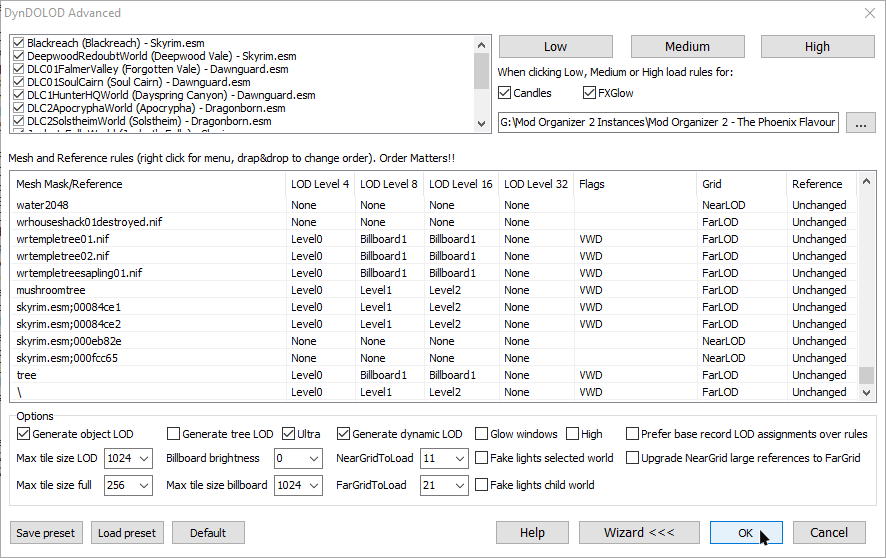
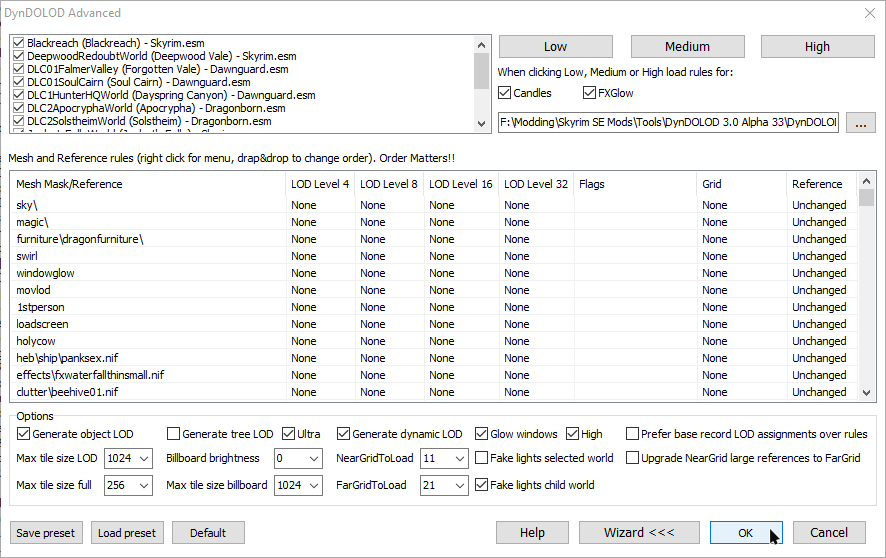
TPF Release 4.5.2

diff --git a/content/tpf/initial-setup/additional-tools.md b/content/tpf/initial-setup/additional-tools.md
@@ -83,12 +83,14 @@ Cathedral Assets Optimizer (CAO) by Gk1 is a unified asset processing tool that 
 
 ### Installation
 
-* Download the latest non-Beta version of [Cathedral Assets Optimizer](https://www.nexusmods.com/skyrimspecialedition/mods/23316) manually from the Nexus.
-* Create a new folder: `Your Modding Folder\Tools\Cathedral Assets Optimizer`.
-* Open the downloaded archive and extract everything into the new folder.
-* Follow [these instructions](https://support.microsoft.com/en-us/help/4028485/windows-) to add an exception for CAO to Windows Defender.
+- Manually download version **5.0.15** of the [Cathedral Assets Optimizer](https://www.nexusmods.com/skyrimspecialedition/mods/23316) under **Old Files**
+- Create a new folder: `Your Modding Folder\Tools\Cathedral Assets Optimizer`.
+- Open the downloaded archive and extract everything into the new folder.
+- Follow [these instructions](https://support.microsoft.com/en-us/help/4028485/windows-) to add an exception for CAO to Windows Defender.
 
-> You will be using CAO plenty of times during the installation of the guide, so I recommend adding it to your Windows Taskbar for quick access.
+You will be using CAO plenty of times during the installation of the guide, so I recommend adding it to your Windows Taskbar for quick access.
+
+> We are using an older version because CAO 5.1.x currently has some issues. Using it later on to pack and compress facegen files would cause the game to crash.
 
 ### Profiles
 

diff --git a/content/tpf/appendix/changelog.md b/content/tpf/appendix/changelog.md
@@ -6,6 +6,36 @@ description: >
   For all versions since the Github release (3.2 and later).
 ---
 
+## Release 4.5.2
+
+> 13/04/2021
+
+Fixed a bunch of issues that were reported over the past couple of dayss. This update is **save-safe** but it requires users of the manual guide to rerun DynDOLOD (you can keep your TexGen output).
+
+- [How to update DynDOLOD](/tpf/guide-resources/how-to-update/#dyndolod) for both manual and Wabbajack users.
+
+#### Initial Setup
+
+- **Additional Tools:** Added instructions to specifically download an older version of Cathedral Assets Optimizer.
+
+#### Mod Installation
+
+- Fixed a few more small typos and oversights.
+- **Fixes:** Updated download instructions for Bug Fixes SSE (file name changed).
+- **Valuable Items:** Removed Septim HD (coin pile mesh can cause crashes).
+- **Valuable Items:** Added Ancient Imperial Septims.
+- **New Content:** Removed note about Early Elementalist for Misc College of Winterhold Tweaks (no longer applies).
+
+#### Finalisation
+
+- **DynDOLOD:** Updated outdated screenshot with DynDOLOD settings.
+
+#### Conflict Resolution Patch
+
+- Removed leftover edit to an Ash Spawn weapon from a mod I don't remember.
+- Removed leftover edit to blacksmith water trough in Riften.
+- Slapped bandaid on broken glaciers on Solstheim.
+
 ## Release 4.5.1
 
 > 07/04/2021

diff --git a/content/tpf/guide-resources/how-to-update.md b/content/tpf/guide-resources/how-to-update.md
@@ -49,7 +49,7 @@ In order to update CAO without removing the custom TPF profiles, simply do the f
 
 ## DynDOLOD
 
-There is generally no need to update DynDOLOD and re-generate LOD for every new DynDOLOD update, especially when you're in the middle of a playthrough. However, if you change something about the landscape (the Alternate Branch Textures color for Enhanced Vanilla Trees for example), you need to re-run DynDOLOD and you should update it first.
+There is generally no need to update DynDOLOD and re-generate LOD for every new DynDOLOD update, especially when you're in the middle of a playthrough. However, if you change something about the landscape (like trees or various objects), you need to re-run DynDOLOD and you should update it first.
 
 > The instructions are for both **Wabbajack** and **manual** users. They are for updating DynDOLOD in an ongoing playthrough.
 

diff --git a/content/tpf/mod-installation/valuable-items.md b/content/tpf/mod-installation/valuable-items.md
@@ -6,20 +6,11 @@ description: >
   Retextures for unique objects and treasures such as soul gems.
 ---
 
-##### [Septim HD](https://www.nexusmods.com/skyrimspecialedition/mods/22170?tab=files)
+##### [Ancient Imperial Septims](https://www.nexusmods.com/skyrimspecialedition/mods/37545?tab=files)
 
 #### Download Instructions
 
-- **Main Files:** Septim HD v.1.6.1
-
-#### FOMOD Instructions
-
-- **Texture Options:** Shinier Original
-- **Install Plugin?** No thanks...
-
-#### Additional Instructions
-
-- Run the mod through Cathedral Assets Optimizer (**Optimise SLE Assets**).
+- **Main Files:** Ancient Imperial Septims - Classic Gold
 
 ##### [JS Dragon Claws](https://www.nexusmods.com/skyrimspecialedition/mods/1394?tab=files)
 

diff --git a/content/tpf/mod-installation/new-content.md b/content/tpf/mod-installation/new-content.md
@@ -249,8 +249,6 @@ description: >
 * **Readme:**
   * *select nothing*
 
-> The **Early Elementalist** module allows you to Wait in the Hall of Elements. This is done by removing the "Can't Wait" flag in that cell. Because this record has to be forwarded into the Conflict Resolution Patch anyway (to patch it with changes from other mods, namely Luminosity), there is no point in keeping the original Early Elementalist ESP as it would be completely overwritten. In short - skip the option, it is already implemented in the CRP.
-
 ##### [Solstheim Lighthouse](https://www.nexusmods.com/skyrimspecialedition/mods/14329?tab=files)
 
 #### Download Instructions

diff --git a/content/tpf/mod-installation/apparel-weapons.md b/content/tpf/mod-installation/apparel-weapons.md
@@ -254,7 +254,7 @@ description: >
 
 * Run the mod through **SSE NIF Optimizer**.
 
-> Processing the meshes with CAO results in the staff 3rd person mesh being invisble ingame. Not processing causes the dagger 1st and 3rd person meshes to be invisible. Only SSE NIF Optimizer reliably fixes all meshes.
+> Processing the meshes with CAO results in the staff 3rd person mesh being invisible ingame. Not processing causes the dagger 1st and 3rd person meshes to be invisible. Only SSE NIF Optimizer reliably fixes all meshes.
 
 ##### [Gemling Queen Jewelry](https://www.nexusmods.com/skyrimspecialedition/mods/4294?tab=files)
 

diff --git a/content/tpf/mod-installation/fixes.md b/content/tpf/mod-installation/fixes.md
@@ -17,7 +17,7 @@ description: >
 - Double-click **Scrambled Bugs** in your mod order.
 - Switch to the **Text Files** tab and select the **ScrambledBugs.json** file.
 - In **Line 4**, set **"activeEffectConditions":** to **false** (don't remove the comma).
-- In **Line 13**, set **equipBestAmmo** to **true** (don't remove the comma).
+- In **Line 13**, set **"equipBestAmmo:"** to **true** (don't remove the comma).
 - In **Line 16**, set **"underfilledSoulGems":** to **true**.
 - Hit **CTRL+S** to save and close the window.
 
